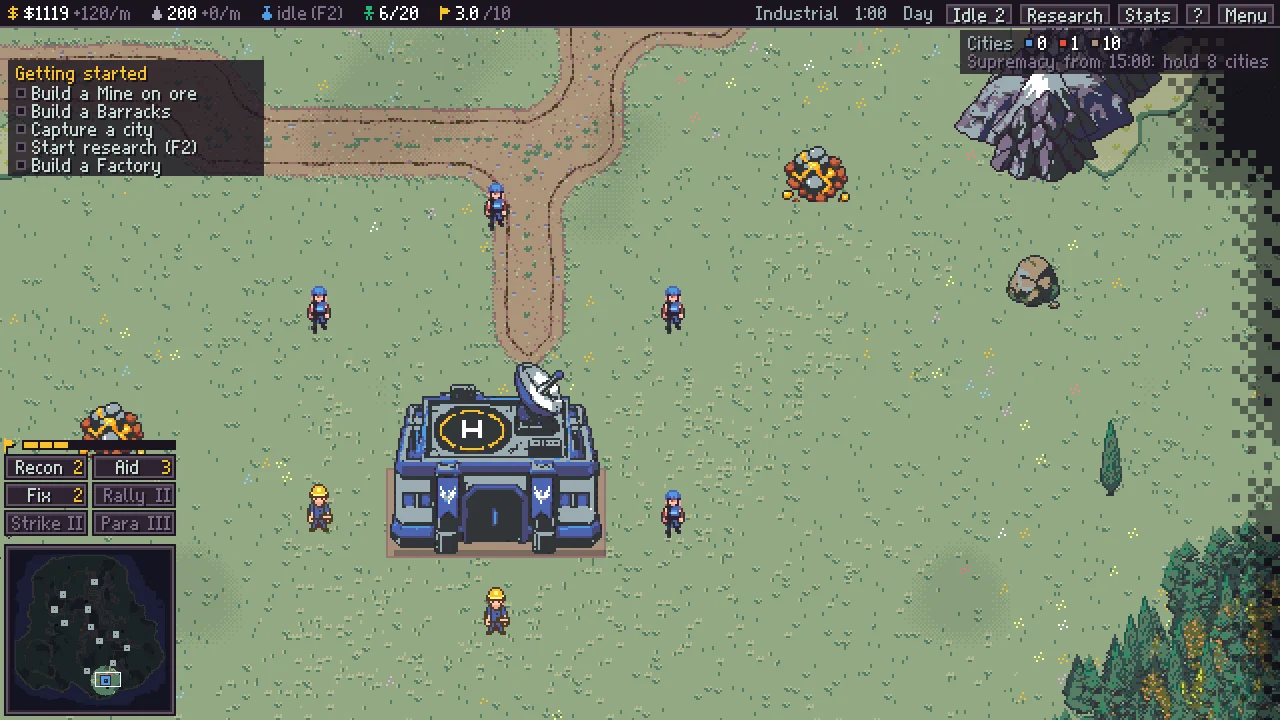
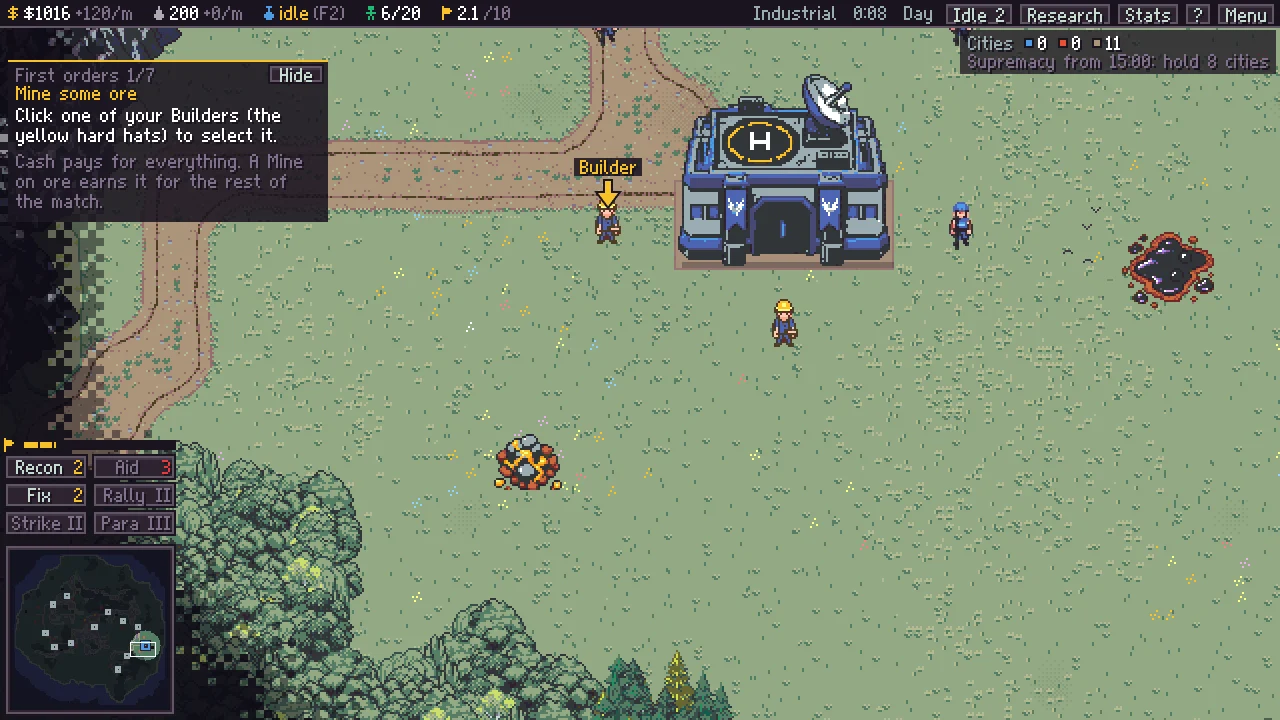
Overgrowth 0.8 preview, Pixel RTS First Orders, Verdant Relay Stage 8
New screenshots (Overgrowth at night, First Orders, Verdant Relay's
clearer HUD), updated game text, and a devlog post.

diff --git a/content/devlog/2026-10-14-overgrowth-0-8-preview.md b/content/devlog/2026-10-14-overgrowth-0-8-preview.md
@@ -1,0 +1,32 @@
+---
+title: "Overgrowth 0.8 preview, First Orders, and foraging"
+date: 2026-10-14
+time: "23:00"
+summary: Two new Blight and a lantern to answer them in Overgrowth, a guided opening in Pixel RTS, and foraging in Verdant Relay.
+cover: /assets/games/overgrowth/shot2.webp
+game: overgrowth
+---
+
+Tonight's builds, all three in playtest.
+
+## Overgrowth 0.8 preview: The Long Vigil, part one
+
+The first half of the next update, live early. [Play it here](/games/overgrowth/).
+
+- **Spitters** (from night 3) stop behind the pack and lob burning bile at your towers. Run them down with the machete.
+- **Burrowers** (from night 6) tunnel under your walls and burst up on the far side. Nothing can hit them underground.
+- **The Glowcap Lantern** answers both: Blight in its light take 25% more damage, and a Burrower tunnelling into it gets dragged up and dazed.
+- **Memories** are permanent unlocks earned from your lifetime records, like starting with a slingshot after you hold through night 3, or a fourth boon card after you fell 150 Blight.
+- **Nights are actually dark now.** Fires, lanterns and the Heartwood light the clearing.
+
+Full notes are in the [changelog](https://github.com/ycgNem/overgrowth/blob/main/CHANGELOG.md).
+
+## Pixel RTS: First Orders
+
+Outside Boot Camp, the opening wasn't explaining itself. Now every newcomer's match starts with **First Orders**: a guide that names the very next click and points at it with an arrow on the map or a blinking button. It covers your first mine, research, a city, oil, a Barracks and a Factory, then gets out of the way. [Play it here](/games/pixel-rts/).
+
+![Pixel RTS: First Orders pointing at a Builder](/assets/games/pixel-rts/shot1.webp)
+
+## Verdant Relay: legibility and foraging
+
+Stage 8 is a readability pass: bigger text, crisper digits and icons, and a cleaner night sidebar. It also adds foraging: wild fruit that heals, glints of scrap in the brush, and dusk blooms worth Intel and research. Forage you've seen stays marked on the map. [Play it here](/games/verdant-relay/).
